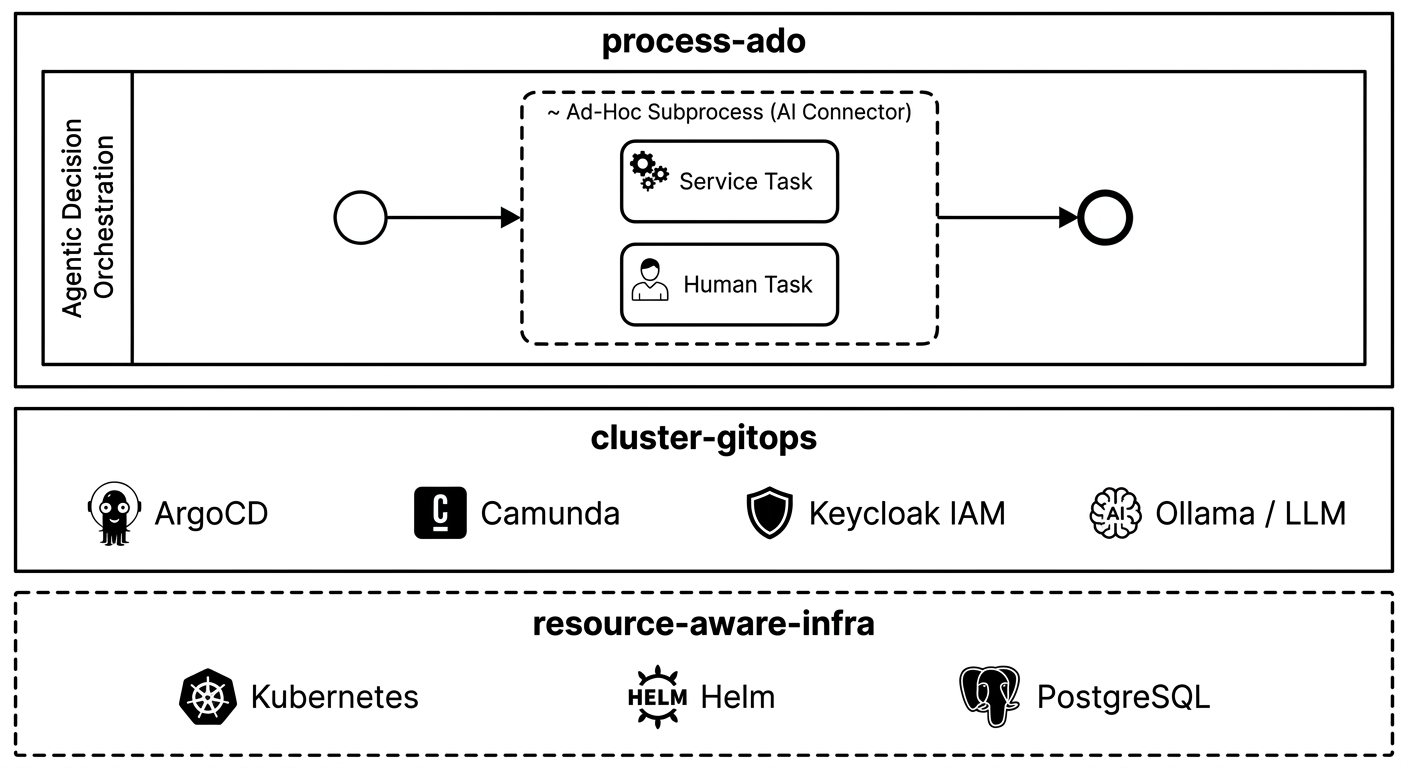
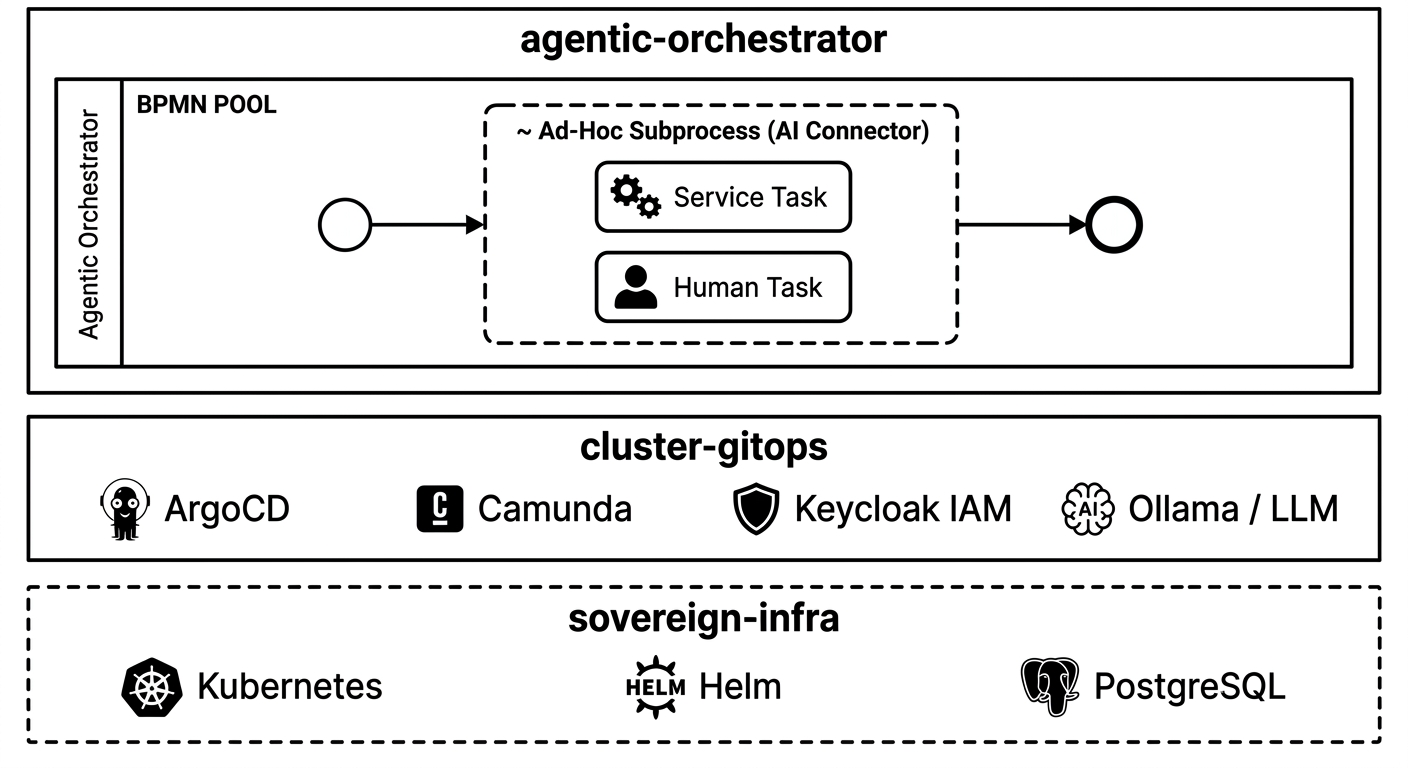
docs: renamed projects

Changed region(s): [[0.0, 0.0, 1.0, 1.0]]

diff --git a/README.md b/README.md
@@ -14,9 +14,9 @@ This repository serves strictly as the central **Documentation & Architecture Re
 
 | Layer | Responsibility | Corresponding Repo | Location in Diagram |
 | :--- | :--- | :--- | :--- |
-| **Process Logic** | Business BPMN, AI Prompts, Human-in-the-Loop workflows. | `process-ado` | **Top Box** (Agentic Decision Orchestration) |
+| **Process Logic** | Business BPMN, AI Prompts, Human-in-the-Loop workflows. | `agentic-orchestrator` | **Top Box** (Agentic Decision Orchestration) |
 | **Platform Ops** | GitOps pipelines (ArgoCD), Camunda/Zeebe deployment, Keycloak IAM. | `cluster-gitops` | **Middle Box** (Management Shell) |
-| **Infrastructure**| K3s/Helm charts, NVIDIA GPU bootstrapping, Resource profiling. | `resource-aware-infra` | **Bottom Footer** (Dashed Boundary) |
+| **Infrastructure**| K3s/Helm charts, NVIDIA GPU bootstrapping, Resource profiling. | `sovereign-infra` | **Bottom Footer** (Dashed Boundary) |
 
 *   **Status:** 🚧 Work in Progress
 *   **Goal:** Demonstrating secure, scalable, and auditable AI orchestration using an **"Adaptive Case Management 2.0"** approach with 100% data sovereignty.
@@ -87,7 +87,7 @@ Deployment is managed via **Helm profiles**, allowing seamless switching between
 
 #### Why No Spring AI?
 I evaluated Spring AI but deliberately excluded it to preserve architectural integrity:
-*   **Logic Decoupling:** Business logic belongs in the orchestration layer (`process-ado`), not hardcoded in Java binaries. This allows for rapid prompt-tuning and model-swapping without redeploying the entire service.
+*   **Logic Decoupling:** Business logic belongs in the orchestration layer (`agentic-orchestrator`), not hardcoded in Java binaries. This allows for rapid prompt-tuning and model-swapping without redeploying the entire service.
 *   **Native Auditability:** Using the native Camunda Connector ensures that prompts, reasoning paths, and tool calls are logged directly into Zeebe/Operate for compliance audits.
 *   **Process Transparency:** Non-technical stakeholders can visualize agent decision paths directly in BPMN diagrams without parsing application logs.
 